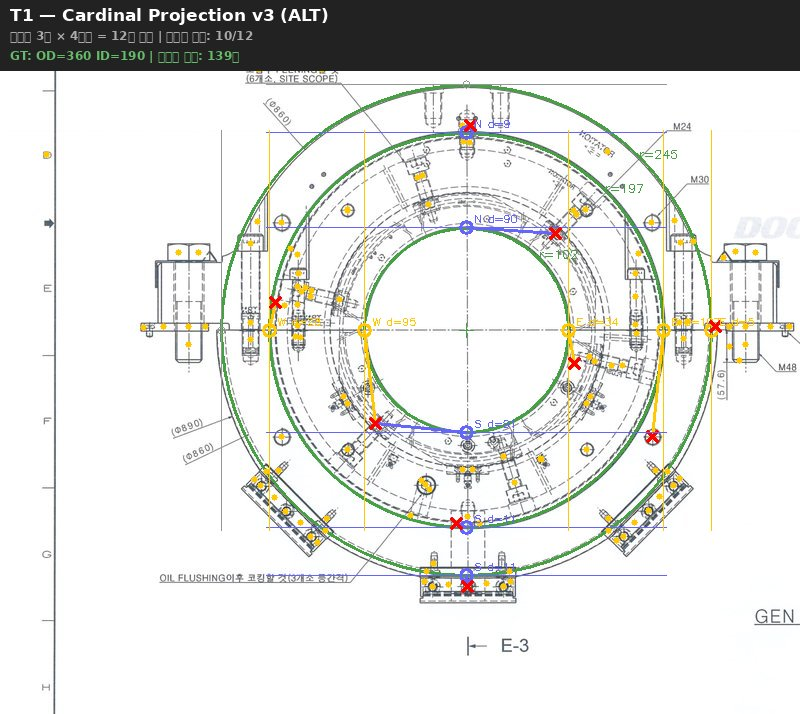
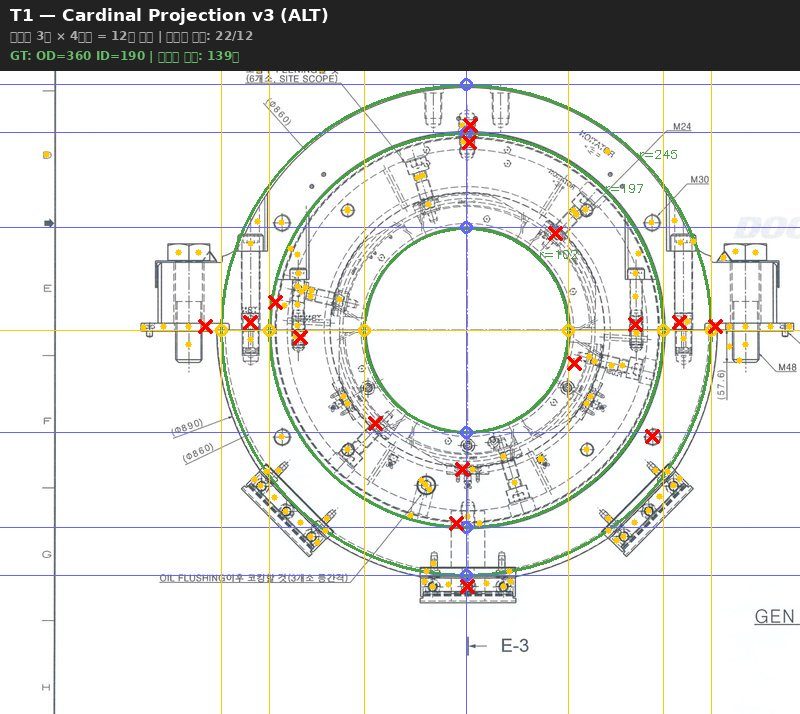
fix(S08): Cardinal v3 십자(+) 직선 방식으로 수정 — 히트율 87%→94%
각 끝점에서 수평+수직 두 직선을 이미지 전체에 배치하여 화살촉 검색.
기존: 접선 방향 1개 직선만 스캔 → 방향 의존적
수정: 십자(+) 직선 2개 → 치수선이 어느 방향이든 잡힘

결과: T1 22/24, T2 23/24, T4 23/24, T8 22/24 → 전체 90/96 (94%)

diff --git a/blueprint-ai-bom/scripts/s08_cardinal_v3_alt.py b/blueprint-ai-bom/scripts/s08_cardinal_v3_alt.py
@@ -138,15 +138,18 @@ def detect_arrowheads_morphology(gray, min_area=30, max_area=800):
 
 # ── 3. Cardinal Projection ──
 
-def cardinal_projection(circles, arrows, gray, scan_length=200, tolerance=15):
-    """각 원의 N/S/E/W 끝점에서 접선 방향 스캔 → 화살촉 매칭
+def cardinal_projection(circles, arrows, gray, tolerance=15):
+    """각 원의 N/S/E/W 끝점에서 십자(+) 직선 → 화살촉 매칭
 
-    핵심: 끝점에서 바깥이 아니라 **접선 방향**으로 직선을 긋는다.
-      N/S 끝점 → 가로(수평) 접선을 양쪽으로 scan_length만큼 스캔
-      E/W 끝점 → 세로(수직) 접선을 양쪽으로 scan_length만큼 스캔
+    핵심: 각 끝점에서 **수평선 + 수직선 둘 다** 이미지 끝까지 그어서
+    그 직선 위의 화살촉을 찾는다.
 
-    scan_length: 접선 방향으로 양쪽 스캔 거리 (px)
-    tolerance: 접선과 화살촉 사이 수직 거리 최대값 (px)
+      N끝점 → 수평선(좌→우 끝) + 수직선(상→하 끝)
+      S끝점 → 수평선(좌→우 끝) + 수직선(상→하 끝)
+      E끝점 → 수평선(좌→우 끝) + 수직선(상→하 끝)
+      W끝점 → 수평선(좌→우 끝) + 수직선(상→하 끝)
+
+    tolerance: 직선과 화살촉 사이 수직 거리 최대값 (px)
     """
     h, w = gray.shape
     if not arrows:
@@ -154,19 +157,17 @@ def cardinal_projection(circles, arrows, gray, scan_length=200, tolerance=15):
 
     results = []
 
-    # N/S = 수평 접선, E/W = 수직 접선
-    # (방향명, 끝점 dx, 끝점 dy, 접선축='h'수평/'v'수직)
     directions = [
-        ("N", 0, -1, "h"),  # 북쪽 끝점 → 가로 접선
-        ("S", 0,  1, "h"),  # 남쪽 끝점 → 가로 접선
-        ("E", 1,  0, "v"),  # 동쪽 끝점 → 세로 접선
-        ("W", -1, 0, "v"),  # 서쪽 끝점 → 세로 접선
+        ("N", 0, -1),
+        ("S", 0,  1),
+        ("E", 1,  0),
+        ("W", -1, 0),
     ]
 
     for ci, (cx, cy, r) in enumerate(circles):
         circle_hits = []
 
-        for dir_name, dx, dy, tangent_axis in directions:
+        for dir_name, dx, dy in directions:
             # 끝점
             px = cx + r * dx
             py = cy + r * dy
@@ -174,42 +175,47 @@ def cardinal_projection(circles, arrows, gray, scan_length=200, tolerance=15):
             if px < 0 or py < 0 or px >= w or py >= h:
                 continue
 
-            # 접선 위의 화살촉 검색
-            matches = []
+            # 수평선 + 수직선 둘 다에서 화살촉 검색
+            h_matches = []  # 수평선 위 화살촉
+            v_matches = []  # 수직선 위 화살촉
+
             for ai, arrow in enumerate(arrows):
                 ax, ay = arrow["x"], arrow["y"]
 
-                if tangent_axis == "h":
-                    # 수평 접선: y좌표가 끝점과 비슷, x는 양쪽 scan_length 이내
-                    if abs(ay - py) > tolerance:
-                        continue
-                    if not (px - scan_length <= ax <= px + scan_length):
-                        continue
-                    dist_from_line = abs(ay - py)
-                else:
-                    # 수직 접선: x좌표가 끝점과 비슷, y는 양쪽 scan_length 이내
-                    if abs(ax - px) > tolerance:
-                        continue
-                    if not (py - scan_length <= ay <= py + scan_length):
-                        continue
-                    dist_from_line = abs(ax - px)
+                # 수평선: y좌표가 끝점과 비슷 (이미지 전체 폭)
+                if abs(ay - py) <= tolerance:
+                    dist = np.sqrt((ax - px) ** 2 + (ay - py) ** 2)
+                    h_matches.append({
+                        "arrow_idx": ai, "arrow": arrow,
+                        "line": "h", "dist": dist,
+                        "dist_from_line": abs(ay - py),
+                    })
 
-                dist_from_endpoint = np.sqrt((ax - px) ** 2 + (ay - py) ** 2)
-                matches.append({
-                    "arrow_idx": ai,
-                    "arrow": arrow,
-                    "dist_from_line": dist_from_line,
-                    "dist_from_endpoint": dist_from_endpoint,
-                })
+                # 수직선: x좌표가 끝점과 비슷 (이미지 전체 높이)
+                if abs(ax - px) <= tolerance:
+                    dist = np.sqrt((ax - px) ** 2 + (ay - py) ** 2)
+                    v_matches.append({
+                        "arrow_idx": ai, "arrow": arrow,
+                        "line": "v", "dist": dist,
+                        "dist_from_line": abs(ax - px),
+                    })
 
-            if matches:
-                # 가장 가까운 화살촉
-                best = min(matches, key=lambda m: m["dist_from_endpoint"])
+            # 각 직선에서 가장 가까운 화살촉
+            all_best = []
+            if h_matches:
+                best_h = min(h_matches, key=lambda m: m["dist"])
+                all_best.append(best_h)
+            if v_matches:
+                best_v = min(v_matches, key=lambda m: m["dist"])
+                all_best.append(best_v)
+
+            for best in all_best:
                 circle_hits.append({
                     "direction": dir_name,
+                    "line": best["line"],
                     "endpoint": (px, py),
                     "arrow": best["arrow"],
-                    "dist": best["dist_from_endpoint"],
+                    "dist": best["dist"],
                 })
 
         results.append({
@@ -247,66 +253,35 @@ def visualize_cardinal(img, circles, arrows, projections, name, gt):
         "W": (0, 200, 255),
     }
 
-    hit_count = 0
-    scan_vis = 200
-    tangent_map = {"N": "h", "S": "h", "E": "v", "W": "v"}
-
+    # 먼저 모든 끝점의 십자 직선을 그림 (얇은 선)
+    drawn_endpoints = set()
     for proj in projections:
         cx, cy, r = proj["cx"], proj["cy"], proj["r"]
+        for dir_name, ddx, ddy in [("N", 0, -1), ("S", 0, 1),
+                                    ("E", 1, 0), ("W", -1, 0)]:
+            px = int(cx + r * ddx)
+            py = int(cy + r * ddy)
+            key = (px, py)
+            if key in drawn_endpoints:
+                continue
+            drawn_endpoints.add(key)
+            color = dir_colors.get(dir_name, (200, 200, 200))
+            # 수평선 (이미지 전체 폭)
+            cv2.line(canvas, (0, py), (w, py), color, 1)
+            # 수직선 (이미지 전체 높이)
+            cv2.line(canvas, (px, 0), (px, h), color, 1)
+            # 끝점 마커
+            cv2.circle(canvas, (px, py), 5, color, 2)
 
+    # 히트 표시
+    hit_count = 0
+    for proj in projections:
         for hit in proj["hits"]:
-            d = hit["direction"]
-            ep = hit["endpoint"]
             ap = hit["arrow"]
-            color = dir_colors.get(d, (200, 200, 200))
-            tangent = tangent_map[d]
-
-            # 접선 (수평 또는 수직)
-            epx, epy = int(ep[0]), int(ep[1])
-            if tangent == "h":
-                cv2.line(canvas, (epx - scan_vis, epy),
-                         (epx + scan_vis, epy), color, 1)
-            else:
-                cv2.line(canvas, (epx, epy - scan_vis),
-                         (epx, epy + scan_vis), color, 1)
-
-            # 끝점 → 화살촉 연결선 (굵게)
-            cv2.line(canvas, (epx, epy),
-                     (int(ap["x"]), int(ap["y"])), color, 2)
-
-            # 끝점 마커 (큰 원)
-            cv2.circle(canvas, (epx, epy), 6, color, 2)
-
             # 화살촉 히트 (빨간 X)
             cv2.drawMarker(canvas, (int(ap["x"]), int(ap["y"])),
-                           (0, 0, 255), cv2.MARKER_TILTED_CROSS, 10, 2)
-
-            # 방향 라벨
-            cv2.putText(canvas, f"{d} d={hit['dist']:.0f}",
-                        (epx + 8, epy - 5),
-                        cv2.FONT_HERSHEY_SIMPLEX, 0.35, color, 1)
-
+                           (0, 0, 255), cv2.MARKER_TILTED_CROSS, 12, 2)
             hit_count += 1
-
-    # 히트 없는 방향도 접선 표시 (회색)
-    scan_len = 200
-    for proj in projections:
-        cx, cy, r = proj["cx"], proj["cy"], proj["r"]
-        hit_dirs = {h["direction"] for h in proj["hits"]}
-
-        for dir_name, dx, dy, tangent in [("N", 0, -1, "h"), ("S", 0, 1, "h"),
-                                           ("E", 1, 0, "v"), ("W", -1, 0, "v")]:
-            if dir_name in hit_dirs:
-                continue
-            px = cx + r * dx
-            py = cy + r * dy
-            if tangent == "h":  # 수평 접선
-                cv2.line(canvas, (int(px - scan_len), int(py)),
-                         (int(px + scan_len), int(py)), (150, 150, 150), 1)
-            else:  # 수직 접선
-                cv2.line(canvas, (int(px), int(py - scan_len)),
-                         (int(px), int(py + scan_len)), (150, 150, 150), 1)
-            cv2.circle(canvas, (int(px), int(py)), 4, (150, 150, 150), 1)
 
     # 반지름 라벨
     for cx, cy, r in circles:
@@ -359,12 +334,14 @@ def run():
         # 3. Cardinal Projection
         projections = cardinal_projection(circles, arrows, gray)
         total_hits = sum(len(p["hits"]) for p in projections)
-        print(f"  Cardinal 히트: {total_hits}/{len(circles) * 4}")
+        # 끝점 4개 × 직선 2개(수평+수직) = 8개 직선/원, × 원 수
+        total_lines = len(circles) * 4 * 2
+        print(f"  Cardinal 히트: {total_hits} (끝점 {len(circles)*4}개 × 직선2 = {total_lines}개 직선)")
 
         for proj in projections:
             if proj["hits"]:
                 hits_str = ", ".join(
-                    f"{h['direction']}({h['dist']:.0f}px)"
+                    f"{h['direction']}-{h['line']}({h['dist']:.0f}px)"
                     for h in proj["hits"]
                 )
                 print(f"    r={proj['r']:.0f}: {hits_str}")
